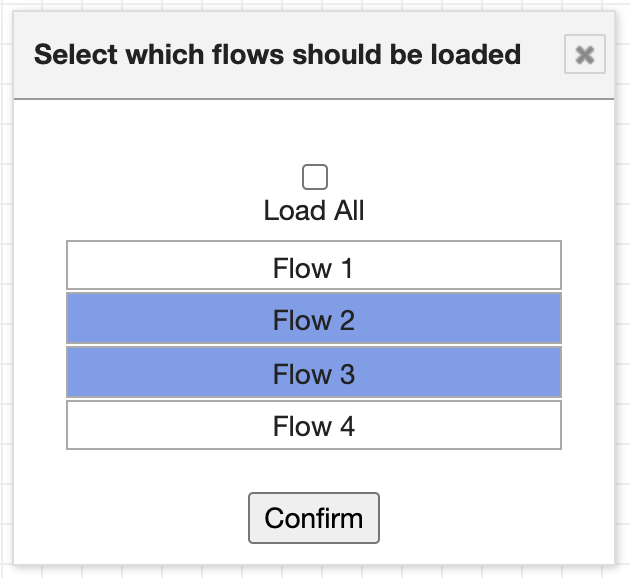
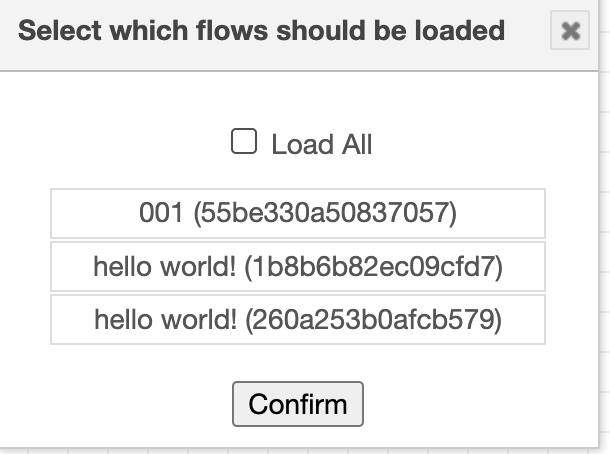
[fixed]：修正相关说明

diff --git a/README.md b/README.md
@@ -1,6 +1,7 @@
 ## _Flow Manager_ module for node-red
 
 Flow Manager separates your flow json to multiple files.
+Split Node-RED flows into separate files, with support for duplicated flow names.
 
 ### Project origin and attribution
 
@@ -15,7 +16,7 @@ This version keeps the original Flow Manager behavior and includes additional fi
 
 This version also supports duplicated Node-RED flow names by storing flow files with both the visible flow name and the internal flow id. This prevents duplicated imported flow copies from being overwritten or removed during deploy, reload, or Filter Flows operations.
 
-[View change log](https://gitlab.com/monogoto.io/node-red-contrib-flow-manager/-/blob/master/CHANGELOG.md)
+[View change log](https://raw.githubusercontent.com/Twilikiss/node-red-contrib-flow-manager/refs/heads/master/CHANGELOG.md)
 
 ### Installation
 
@@ -74,12 +75,12 @@ This keeps duplicated flow copies persistent across deploys, restarts, and Filte
 
 The dependency versions were updated to address npm audit findings, including upgrading axios and log4js to maintained versions.
 
-#### ![Filter Flows](https://gitlab.com/monogoto.io/node-red-contrib-flow-manager/-/raw/0.7.1/img/filter_flows_button.png)
+#### ![Filter Flows](https://raw.githubusercontent.com/Twilikiss/node-red-contrib-flow-manager/refs/heads/master/img/filter_flows_button.png)
 * Allows selecting which flows Node-RED will load, and which will be ignored and not loaded, **not only in Node-RED's UI, also in it's NodeJS process.** <br/>
 * Unselected flows are NOT deleted, only "ignored" until you select them again using `Filter Flows`.
 * Filtering configuration is stored in `flow-manager-cfg.json` file under your Node-RED path.
 * if `flow-manager-cfg.json` file does not exist, or exists but malformed, or contains an empty JSON array, then all flows will be loaded and no filtering is done.
-* ![Filter Flows Popup](https://gitlab.com/monogoto.io/node-red-contrib-flow-manager/-/raw/0.7.1/img/filter_flows_popup.png)
+* ![Filter Flows Popup](https://raw.githubusercontent.com/Twilikiss/node-red-contrib-flow-manager/refs/heads/master/img/filter_flows_popup.png)
     
 ### envnodes
 envnodes allows configuration of nodes using an external source and custom logic.<br/>
@@ -130,10 +131,10 @@ module.exports = async function() {
 
 Attempting to change any envnode controlled property via Node-RED UI/AdminAPI will be cancelled (with a warning popup) to keep original values defined in your envnodes configuration.
 
-![EnvNodes Warning](https://gitlab.com/monogoto.io/node-red-contrib-flow-manager/-/raw/0.7.1/img/envnodes_warning.png)
+![EnvNodes Warning](https://raw.githubusercontent.com/Twilikiss/node-red-contrib-flow-manager/refs/heads/master/img/envnodes_warning.png)
 
 ### Remote Deploy
-![Remote Deploy Button](https://gitlab.com/monogoto.io/node-red-contrib-flow-manager/-/raw/0.7.1/img/remote_deploy_button.png)
+![Remote Deploy Button](https://raw.githubusercontent.com/Twilikiss/node-red-contrib-flow-manager/refs/heads/master/img/remote_deploy_button.png)
 
 If you work in a server-client environment, where you work locally on your flows, and once in a while need to push your local changes to a remote process running Node-RED.
 
@@ -160,9 +161,9 @@ Do the following to enable Remote Deployment feature:<br/>
 * Restart Node-RED
 * You should see the new "Remote Deploy" button on top of the Node-RED UI.
 
-![Remote Deploy Remote Selection](https://gitlab.com/monogoto.io/node-red-contrib-flow-manager/-/raw/0.7.1/img/remote_deploy_select_remote.png)
+![Remote Deploy Remote Selection](https://raw.githubusercontent.com/Twilikiss/node-red-contrib-flow-manager/refs/heads/master/img/remote_deploy_select_remote.png)
 
-![Remote Deploy Diff Tool](https://gitlab.com/monogoto.io/node-red-contrib-flow-manager/-/raw/0.7.1/img/remote_diff.png)
+![Remote Deploy Diff Tool](https://raw.githubusercontent.com/Twilikiss/node-red-contrib-flow-manager/refs/heads/master/img/remote_diff.png)
 
     
 ### YAML flow file format
@@ -375,4 +376,4 @@ curl --request GET \
 ```
 
 
-[Change Log]: https://gitlab.com/monogoto.io/node-red-contrib-flow-manager/-/raw/0.7.1/CHANGELOG.md
+[Change Log]: https://raw.githubusercontent.com/Twilikiss/node-red-contrib-flow-manager/refs/heads/master/CHANGELOG.md